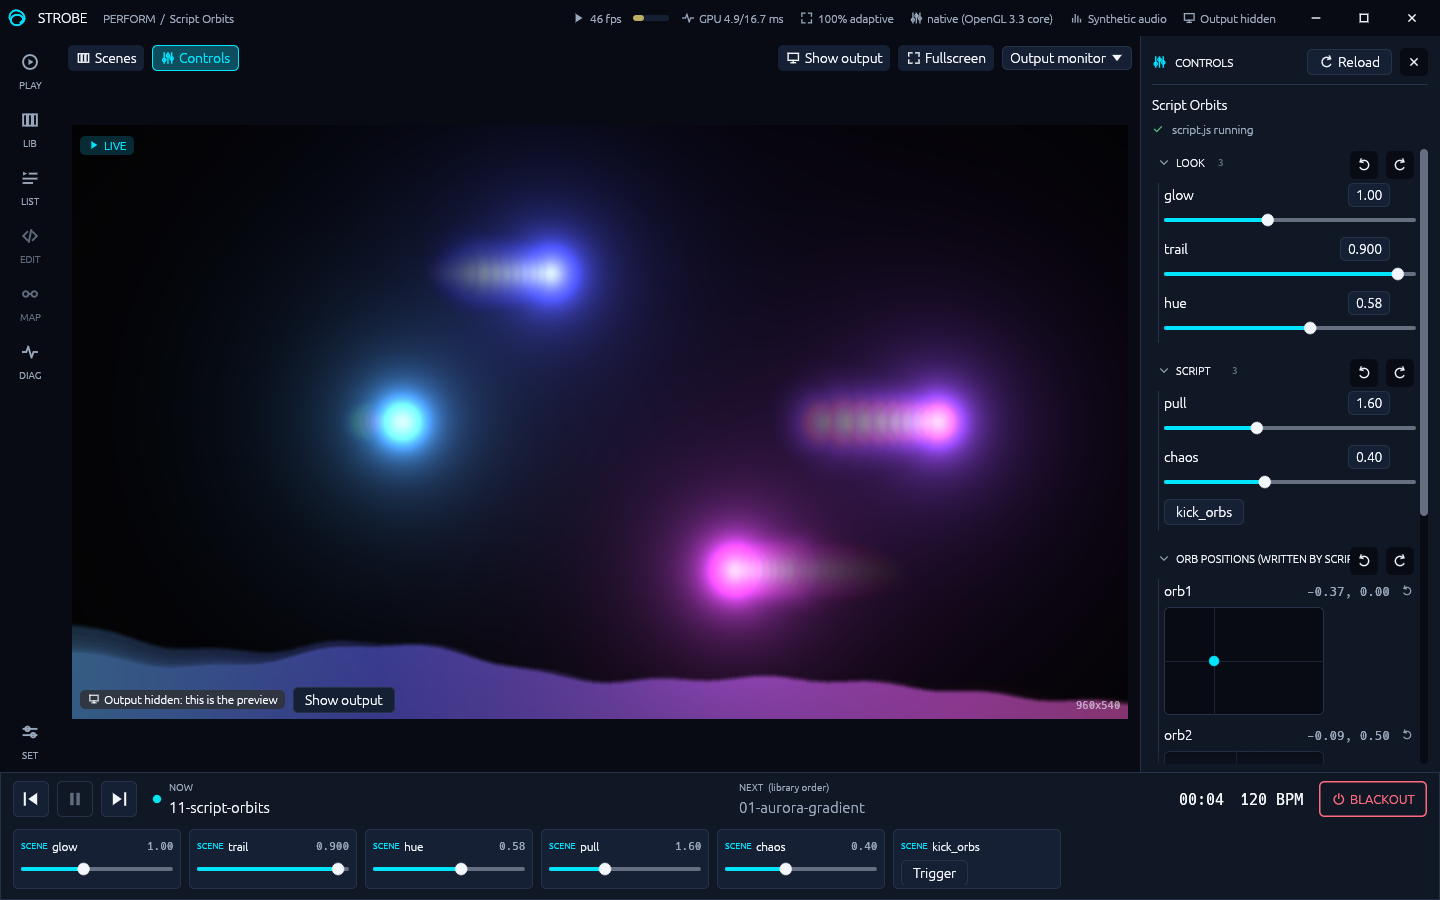
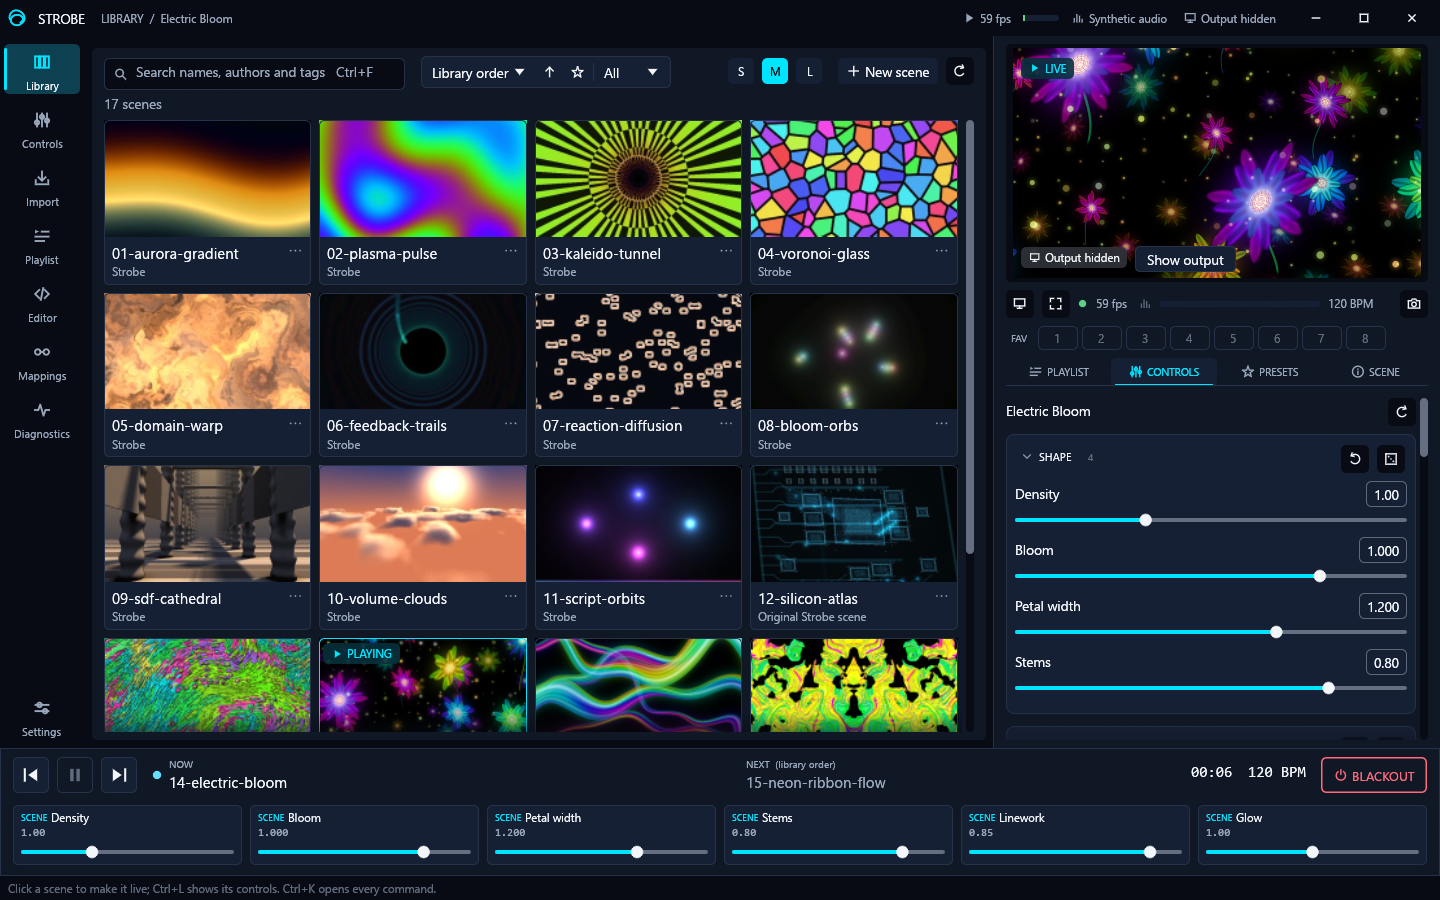
docs: show the reworked Library view in the README

diff --git a/CONTRIBUTING.md b/CONTRIBUTING.md
@@ -151,7 +151,7 @@ including a dry run on a throwaway tag before the real one exists.
 The tag push triggers `.github/workflows/release.yml`. It checks the tag
 against `Cargo.toml`, creates a **draft** release whose notes are the
 changelog section, builds `strobe.exe` on Windows, and packages
-`strobe-<tag>-x86_64-pc-windows-msvc.zip` (the exe, the three ANGLE DLLs
+`strobe-<tag>-x86_64-pc-windows-msvc.zip` (the exe, the three ANGLE DLLs and the Vulkan loader for `--gl angle-vulkan`,
 and `LICENSES.chromium.html`, `scenes/`, README, LICENSE). Alongside it
 go a separate `-symbols.zip` holding `strobe.pdb` (keep it: it is what
 symbolicates a crash minidump from that exact build), a CycloneDX SBOM,

diff --git a/README.md b/README.md
@@ -24,7 +24,7 @@ imports Shadertoy shaders, and plays long shows from playlists.
 > [release page](https://github.com/lnorton89/strobe/releases) and in
 > [`docs/COMPATIBILITY.md`](docs/COMPATIBILITY.md).
 
-![The Perform window at 1440x900](docs/images/app-control.png)
+![The Library view at 1440x900: the scene grid, the live preview and controls, and the macro strip](docs/images/app-control.png)
 
 ---
 
